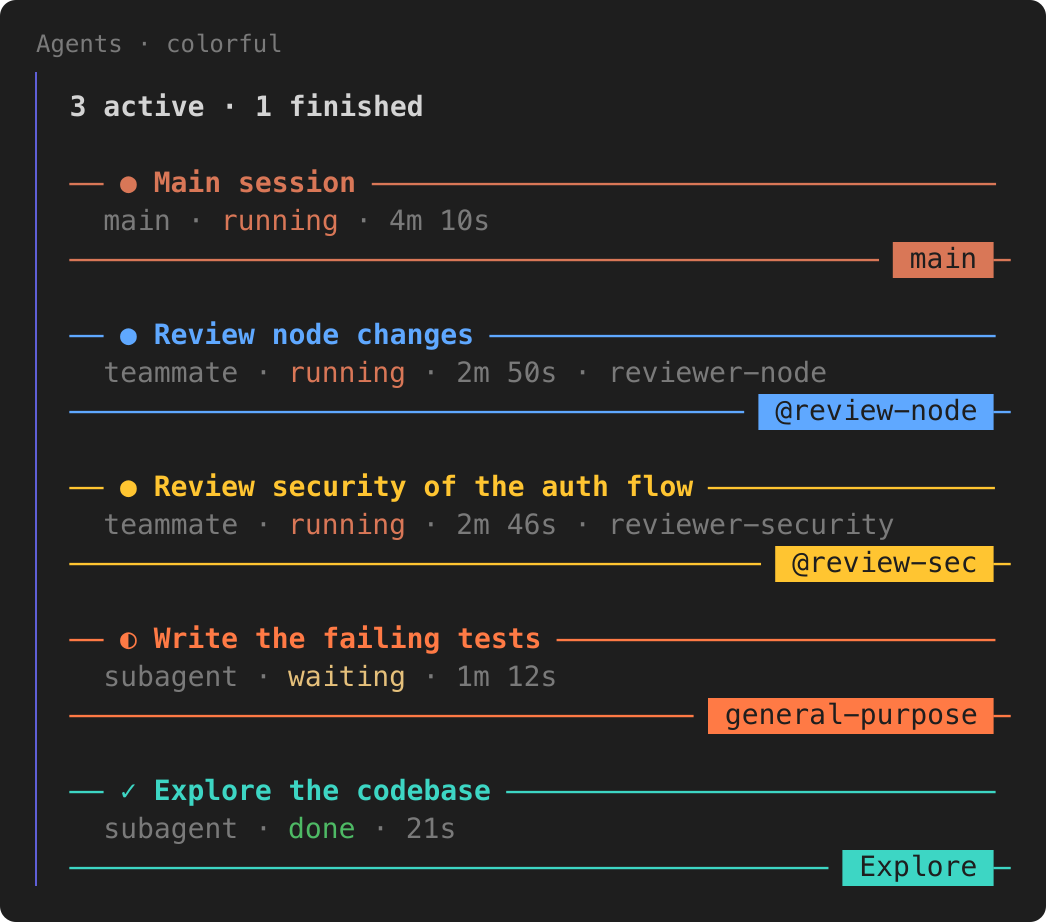
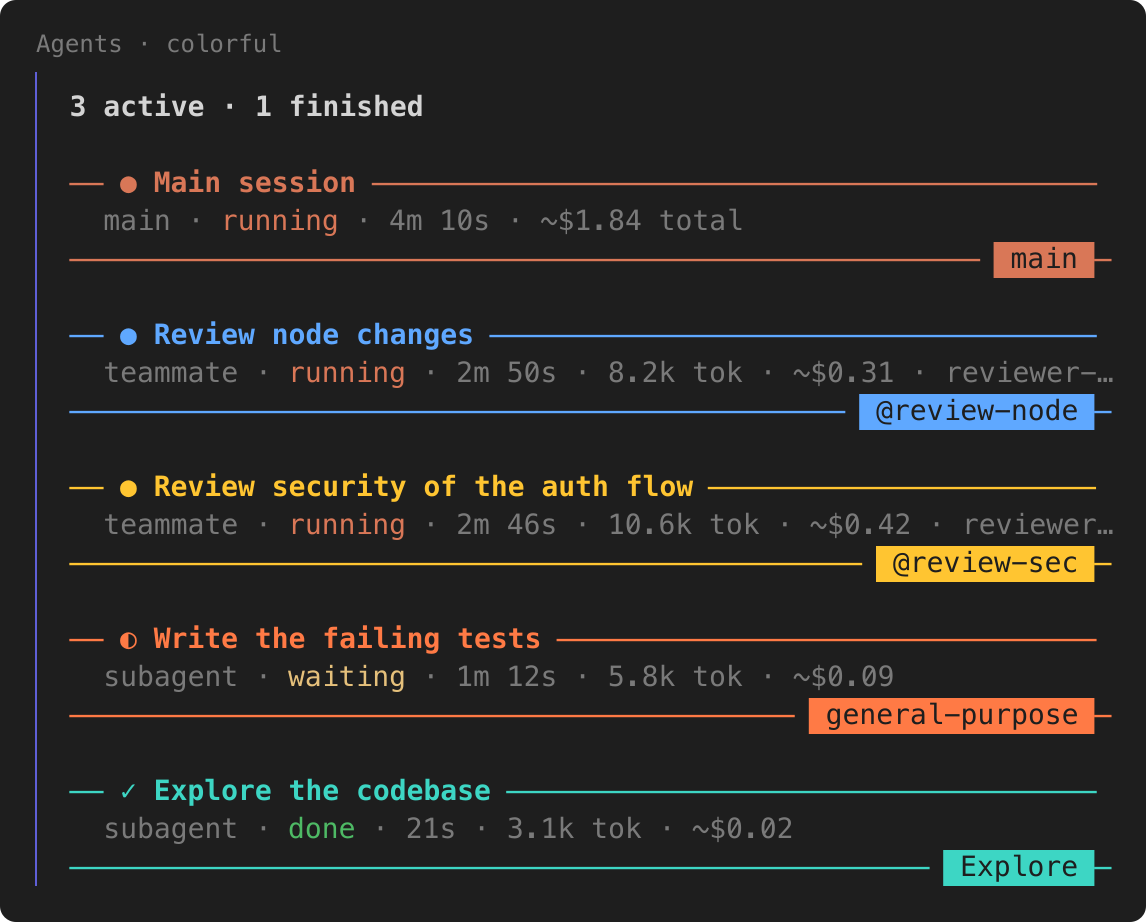
Show tokens and estimated cost per agent, and the session total on the main card

diff --git a/hooks/register.tsx b/hooks/register.tsx
@@ -2,7 +2,7 @@ import { atom, read, update } from 'claude-code'
 import type { Register } from 'claude-code'
 
 import type { AgentRow } from '../types'
-import { FINISHED, MAIN_COLOR, clip, colorOf, elapsed, justFinished, merge, rule } from './logic'
+import { FINISHED, MAIN_COLOR, clip, colorOf, elapsed, justFinished, merge, rule, spend } from './logic'
 import type { Palette } from './logic'
 
 const PANE = 'agents'
@@ -10,6 +10,7 @@ const TITLE = 'Agents'
 
 const rows = atom({ plugin: 'agent-sidebar', key: 'rows' } as const, [])
 const clock = atom({ plugin: 'agent-sidebar', key: 'now' } as const, 0)
+const total = atom({ plugin: 'agent-sidebar', key: 'total' } as const, 0)
 const main = atom({ plugin: 'agent-sidebar', key: 'main' } as const, { status: 'idle', startedAt: 0 })
 
 const LABEL: Record<AgentRow['status'], { icon: string; word: string; color: string }> = {
@@ -51,6 +52,8 @@ export const register: Register = (on, options) => {
               .catch(() => undefined)
           }
         }
+        const usd = (await $.session.usage()).cost?.usd ?? 0
+        if (usd !== (await read($, total))) await update($, total, () => usd)
         // The clock ticks only while someone is working: no redraws at rest.
         const busy = (await read($, main)).status === 'running' || after.some(row => !FINISHED.has(row.status))
         if (busy) await update($, clock, () => now)
@@ -98,6 +101,7 @@ export const register: Register = (on, options) => {
     const { Box, Button, Text } = $.ui.resolve(e)
     const list = await read($, rows)
     const session = await read($, main)
+    const sessionUsd = await read($, total)
     const now = Math.max(await read($, clock), session.endedAt ?? 0, ...list.map(row => row.endedAt ?? 0))
     const width = Math.max(20, e.props.bodyColumns ?? e.viewport?.columns ?? 60)
     // Each card: header, status, closing rule and one blank line; the main card takes one slot.
@@ -161,6 +165,7 @@ export const register: Register = (on, options) => {
           kind: 'main',
           status: session.status,
           time: session.startedAt ? elapsed((session.status === 'running' ? now : (session.endedAt ?? now)) - session.startedAt) : '—',
+          extra: sessionUsd ? `${spend(undefined, sessionUsd)} total` : undefined,
           tag: 'main',
           color: MAIN_COLOR[palette],
           open: view(),
@@ -172,7 +177,8 @@ export const register: Register = (on, options) => {
             kind: row.teammate ? 'teammate' : 'subagent',
             status: row.status,
             time: elapsed((row.endedAt ?? now) - row.startedAt),
-            extra: row.name ? row.type : undefined,
+            // Tokens and cost before the type: a narrow pane cuts the end of the line.
+          extra: [spend(row.tokens, row.usd), row.name ? row.type : ''].filter(Boolean).join(' · '),
             tag: row.name ? `@${row.name}` : row.type,
             color: colorOf(row, palette),
             open: view(row.id),

diff --git a/tests/logic.test.ts b/tests/logic.test.ts
@@ -1,7 +1,7 @@
 import { expect, test } from 'claude-code/testing'
 import type { AgentInfo } from 'claude-code'
 
-import { PALETTE, SUBAGENT_COLOR, TEAMMATE_COLOR, clip, colorOf, elapsed, justFinished, merge, rule } from '../hooks/logic'
+import { PALETTE, SUBAGENT_COLOR, TEAMMATE_COLOR, clip, colorOf, elapsed, justFinished, merge, rule, spend } from '../hooks/logic'
 
 // Only the fields merge reads: the rest of AgentInfo is not needed here.
 const agent = (id: string, status: AgentInfo['status'], parentId?: string, kind: AgentInfo['kind'] = 'local_agent') =>
@@ -75,4 +75,17 @@ test('justFinished reports agents that completed or failed since the last poll, 
   const next = merge(start, [agent('a', 'completed'), agent('b', 'failed'), agent('c', 'killed')], 10)
   expect(justFinished(start, next).map(row => row.id).sort()).toEqual(['a', 'b'])
   expect(justFinished(next, merge(next, [], 20))).toEqual([])
+})
+
+test('spend shows tokens and the estimated cost, leaving out what is missing', () => {
+  expect(spend(10_400, 0.123)).toBe('10.4k tok · ~$0.12')
+  expect(spend(950)).toBe('950 tok')
+  expect(spend(2_500_000, 0)).toBe('2.5M tok')
+  expect(spend(0, undefined)).toBe('')
+})
+
+test('tokens and cost follow the engine and stay once the agent leaves its list', () => {
+  const live = { ...agent('a', 'running'), tokenCount: 5000, cost: { usd: 0.4 } }
+  const rows = merge(merge([], [live], 0), [], 10)
+  expect([rows[0]?.tokens, rows[0]?.usd]).toEqual([5000, 0.4])
 })

diff --git a/hooks/logic.ts b/hooks/logic.ts
@@ -41,6 +41,9 @@ export const merge = (seen: AgentRow[], live: AgentInfo[], now: number): AgentRo
       color: old?.color ?? PALETTE[next++ % PALETTE.length],
       startedAt: old?.startedAt ?? now,
       endedAt: FINISHED.has(info.status) ? (old?.endedAt ?? now) : undefined,
+      // The engine's reading, kept once the agent leaves its list.
+      tokens: info.tokenCount || old?.tokens,
+      usd: info.cost?.usd ?? old?.usd,
     })
   }
   const all = [...byId.values()]
@@ -74,3 +77,10 @@ export const justFinished = (before: AgentRow[], after: AgentRow[]): AgentRow[] 
   const wasActive = new Set(before.filter(row => !FINISHED.has(row.status)).map(row => row.id))
   return after.filter(row => wasActive.has(row.id) && (row.status === 'completed' || row.status === 'failed'))
 }
+
+const compact = (n: number): string =>
+  n < 1000 ? String(n) : n < 1_000_000 ? `${(n / 1000).toFixed(1)}k` : `${(n / 1_000_000).toFixed(1)}M`
+
+// "10.4k tok · ~$0.12": the cost is the engine's estimate, hence the tilde. Empty parts are left out.
+export const spend = (tokens?: number, usd?: number): string =>
+  [tokens ? `${compact(tokens)} tok` : '', usd ? `~$${usd.toFixed(2)}` : ''].filter(Boolean).join(' · ')

diff --git a/types/index.d.ts b/types/index.d.ts
@@ -9,12 +9,14 @@ export type AgentRow = {
   name?: string
   startedAt: number
   endedAt?: number
+  tokens?: number
+  usd?: number
 }
 
 export type MainState = { status: 'running' | 'idle'; startedAt: number; endedAt?: number }
 
 declare module 'claude-code' {
   interface PluginState {
-    'agent-sidebar': { rows: AgentRow[]; now: number; main: MainState }
+    'agent-sidebar': { rows: AgentRow[]; now: number; main: MainState; total: number }
   }
 }

diff --git a/README.md b/README.md
@@ -17,6 +17,7 @@ When you run several agents at once, the transcript gets crowded and it is hard 
 - **Kind** of agent: `teammate` or `subagent`.
 - **Status** at a glance: queued, running, waiting, idle, done, failed, stopped.
 - **Elapsed time**, ticking only while the agent works.
+- **Tokens and estimated cost** per agent (`10.4k tok · ~$0.12`), and the session total on the main card. The cost is Claude Code's own estimate, the same as `/cost`: on a subscription it is not what you pay.
 - **The tag** on the closing rule: `@name` for teammates, the agent type for subagents.
 - **Nested agents** marked with `↳`.
 - **Click a card's title** to jump to that agent's transcript (the main card takes you back).
